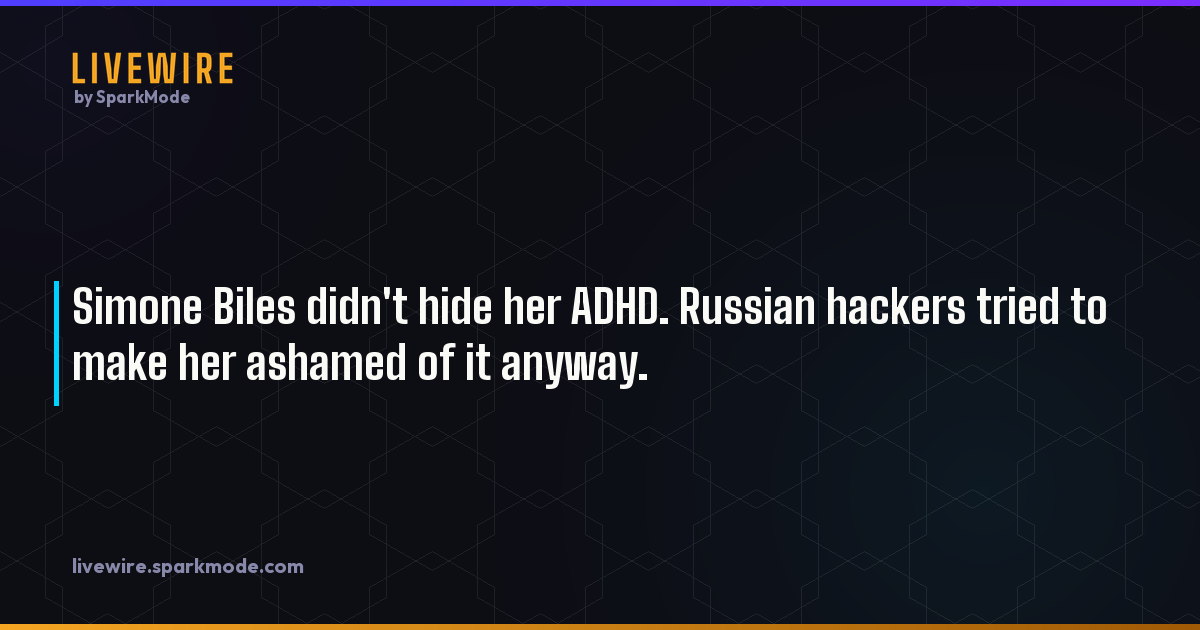
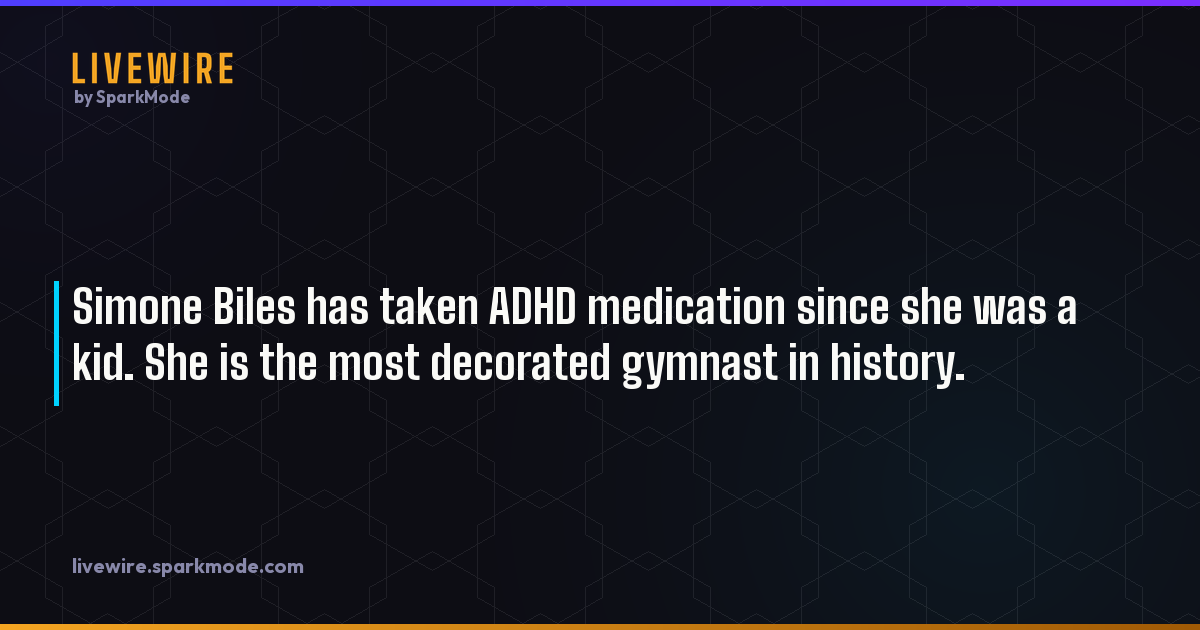
Workflow: opt into Node.js 24 for actions to silence deprecation warning

Changed region(s): [[0.0617, 0.5429, 0.8017, 0.6333], [0.2467, 0.4524, 0.925, 0.5127]]

diff --git a/src/content/they-get-it-too/simone-biles.md b/src/content/they-get-it-too/simone-biles.md
@@ -1,14 +1,14 @@
 ---
-title: "Simone Biles didn't hide her ADHD. Russian hackers tried to make her ashamed of it anyway."
-pageTitle: "Simone Biles ADHD: Nothing to Be Ashamed Of"
-updatedDate: 2026-03-16
-publishedDate: 2026-03-20
+title: "Simone Biles has taken ADHD medication since she was a kid. She is the most decorated gymnast in history."
+pageTitle: "Simone Biles: ADHD Medication and 7 Olympic Golds"
+updatedDate: 2026-03-17
+publishedDate: 2026-03-24
 pillar: they-get-it-too
-description: "In 2016, hackers leaked Simone Biles' medical records to accuse her of cheating. Her two-sentence response said everything about ADHD and shame."
+description: "Simone Biles took ADHD medication every morning of her career. She also won 7 Olympic gold medals. The two things are not in conflict."
 tryThisTonightPrompt: "If your kid takes medication for anything, brain-related or not, say this to them tonight, that taking medicine for the way your brain works is the same as taking medicine for anything else. There's nothing to hide."
 author: SparkMode Team
 draft: true
-scheduledDate: 2026-03-20
+scheduledDate: 2026-03-24
 keywords:
   - ADHD
   - learning differences
@@ -55,17 +55,18 @@ The Winkler and Corcoran stories are about adults who spent decades not knowing 
 
 That is, on paper, the system working. And it still doesn't feel like a win, because the part no one talks about is what it costs a kid to grow up knowing their brain is categorized differently. Even with early diagnosis and appropriate treatment, the label follows you. Other kids find out. Teachers treat you differently. You learn very early that some information about yourself is safer kept quiet.
 
-Biles kept it quiet. She had no particular reason to go public with it. She was the most decorated gymnast in American history, she had won four gold medals in Rio, and her ADHD was a medical detail between her and her doctor. Then someone decided to weaponize it.
+Biles kept it quiet. She had no particular reason to go public with it. She was the most decorated gymnast in American history, she had won four gold medals in Rio, and her ADHD was a medical detail between her and her doctor. Then someone decided to weaponize it. She responded with two tweets posted three minutes apart.
 
 <figure class="embed-block">
-<iframe width="100%" height="315"
-  src="https://www.youtube-nocookie.com/embed/ke3Pb9_oMrg?start=446&rel=0"
-  frameborder="0"
-  allow="accelerometer; autoplay; clipboard-write; encrypted-media; gyroscope; picture-in-picture"
-  allowfullscreen
-  title="Michael Phelps on ADHD and school - Raj Shamani Podcast">
-</iframe>
-<figcaption>Not Biles, but Phelps, the other Olympic gold medalist who grew up with ADHD while the system decided what to make of him. The school section starts at 7:26. His teacher told him he'd never amount to anything.</figcaption>
+<blockquote class="twitter-tweet" data-dnt="true"><p lang="en" dir="ltr">I have ADHD and I have taken medicine for it since I was a kid please know, I believe in clean sport, have always followed the rules, and will continue to do so as fair play is critical to sport and is very important to me.</p>&mdash; Simone Biles (@Simone_Biles) <a href="https://twitter.com/Simone_Biles/status/775785503496855552">September 13, 2016</a></blockquote>
+<script async src="https://platform.twitter.com/widgets.js" charset="utf-8"></script>
+<figcaption>The first tweet. Factual, direct, no preamble.</figcaption>
+</figure>
+
+<figure class="embed-block">
+<blockquote class="twitter-tweet" data-dnt="true"><p lang="en" dir="ltr">Having ADHD, and taking medicine for it is nothing to be ashamed of nothing that I&#39;m afraid to let people know.</p>&mdash; Simone Biles (@Simone_Biles) <a href="https://twitter.com/Simone_Biles/status/775785767855611905">September 13, 2016</a></blockquote>
+<script async src="https://platform.twitter.com/widgets.js" charset="utf-8"></script>
+<figcaption>The second tweet, three minutes later. That was her complete public statement.</figcaption>
 </figure>
 
 ## What her brain actually did in the gym
